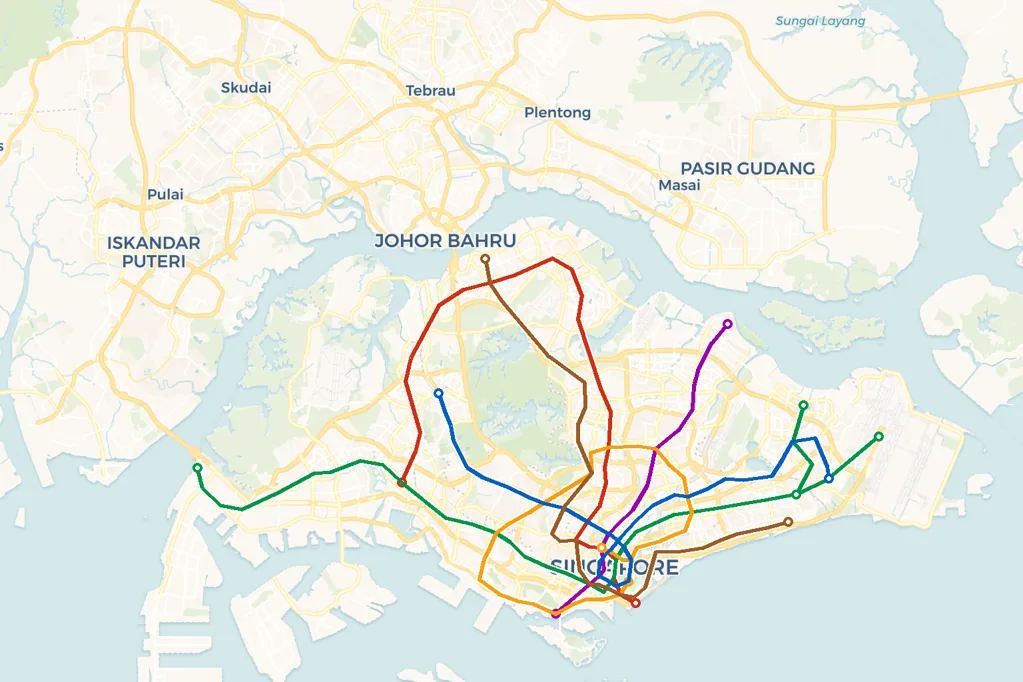
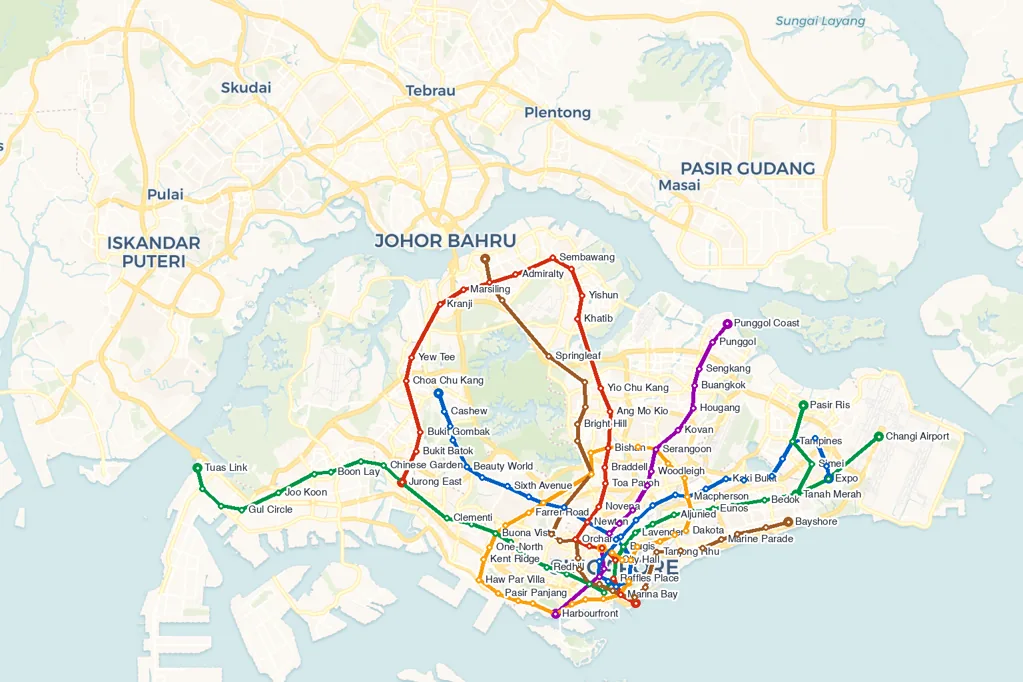
Blog: all pages wide; maps show every stop dot with collision-avoided name labels

diff --git a/blog/make-images.py b/blog/make-images.py
@@ -33,7 +33,13 @@ FALLBACK = {"KGL":"#1b8a3e","PYL":"#f9a825","KJL":"#d32f2f","AGL":"#ef6c00","SPL
             "SAL":"#8e24aa","MRL":"#2e7d32","BRT":"#00838f","NSL":"#d42e12","EWL":"#009645",
             "CGL":"#009645","NEL":"#9900aa","CCL":"#fa9e0d","DTL":"#005ec4","TEL":"#9d5b25"}
 
-def build(name, lat, lon, z, lines, cols=3, rows=2):
+from PIL import ImageFont
+try:
+    FONT = ImageFont.truetype("/System/Library/Fonts/Helvetica.ttc", 15)
+except Exception:
+    FONT = ImageFont.load_default()
+
+def build(name, lat, lon, z, lines, cols=3, rows=2, labels=True):
     cx, cy = tile_xy(lat, lon, z)
     x0, y0 = int(cx - cols / 2), int(cy - rows / 2)
     canvas = Image.new("RGB", (cols * 512, rows * 512))
@@ -47,14 +53,20 @@ def build(name, lat, lon, z, lines, cols=3, rows=2):
         return ((tx - x0) * 512, (ty - y0) * 512)
 
     resolved = []
+    stops_all = []
     for cat, code, color in lines:
         route = resolve(cat, code)
         rid = urllib.parse.quote(route["routeId"])
         data = json.loads(http(f"{APP}/api/rapid-bus/{cat}/map?routeId={rid}"))
         col = color or ("#" + route["color"] if route.get("color") else FALLBACK.get(code, "#2563eb"))
-        shapes = [f["geometry"]["coordinates"] for f in data["geojson"]["features"]
-                  if f["properties"].get("kind") == "route-shape"]
+        feats = data["geojson"]["features"]
+        shapes = [f["geometry"]["coordinates"] for f in feats if f["properties"].get("kind") == "route-shape"]
         resolved.append((col, [[px(la, lo) for lo, la in shape] for shape in shapes]))
+        for f in feats:
+            if f["properties"].get("kind") == "stop":
+                lo, la = f["geometry"]["coordinates"]
+                nm = str(f["properties"].get("name", "")).split("(")[0].strip()
+                stops_all.append((px(la, lo), nm, col))
 
     # casing pass first so overlapping lines stay readable, then colour pass
     for _, shape_sets in resolved:
@@ -68,9 +80,32 @@ def build(name, lat, lon, z, lines, cols=3, rows=2):
                 for tx, ty in (pts[0], pts[-1]):
                     draw.ellipse([tx-7, ty-7, tx+7, ty+7], fill="#ffffff", outline=col, width=4)
 
+    # Stop dots for every station; names greedily labelled with collision
+    # avoidance — a label that would overlap an earlier one is skipped, so the
+    # dense city core stays readable while outer stations all get named.
+    if labels and stops_all:
+        seen_pts = set()
+        boxes = []
+        W, H = canvas.size
+        for (sx, sy), nm, col in stops_all:
+            keypt = (round(sx / 6), round(sy / 6))
+            if keypt in seen_pts or not (0 <= sx <= W and 0 <= sy <= H):
+                continue
+            seen_pts.add(keypt)
+            draw.ellipse([sx - 4.5, sy - 4.5, sx + 4.5, sy + 4.5], fill="#ffffff", outline=col, width=3)
+            if not nm:
+                continue
+            tw = draw.textlength(nm, font=FONT)
+            box = (sx + 8, sy - 9, sx + 8 + tw + 4, sy + 9)
+            if any(not (box[2] < b[0] or box[0] > b[2] or box[3] < b[1] or box[1] > b[3]) for b in boxes):
+                continue
+            boxes.append(box)
+            draw.text((sx + 10, sy - 8), nm, font=FONT, fill="#1a2330",
+                      stroke_width=3, stroke_fill="#ffffff")
+
     canvas = canvas.resize((cols * 341, rows * 341))
     canvas.save(f"img/{name}.webp", "WEBP", quality=82, method=6)
-    print(name, "with", len(lines), "lines")
+    print(name, "with", len(lines), "lines,", len(stops_all), "stops")
 
 RAIL = "rapid-rail-kl"
 build("klang-valley-rail", 3.12, 101.66, 11,
